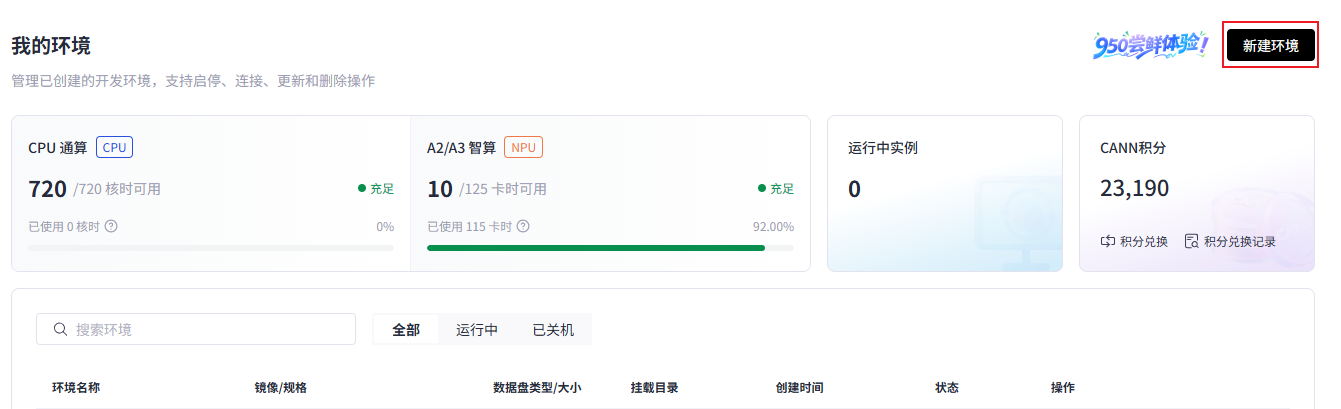
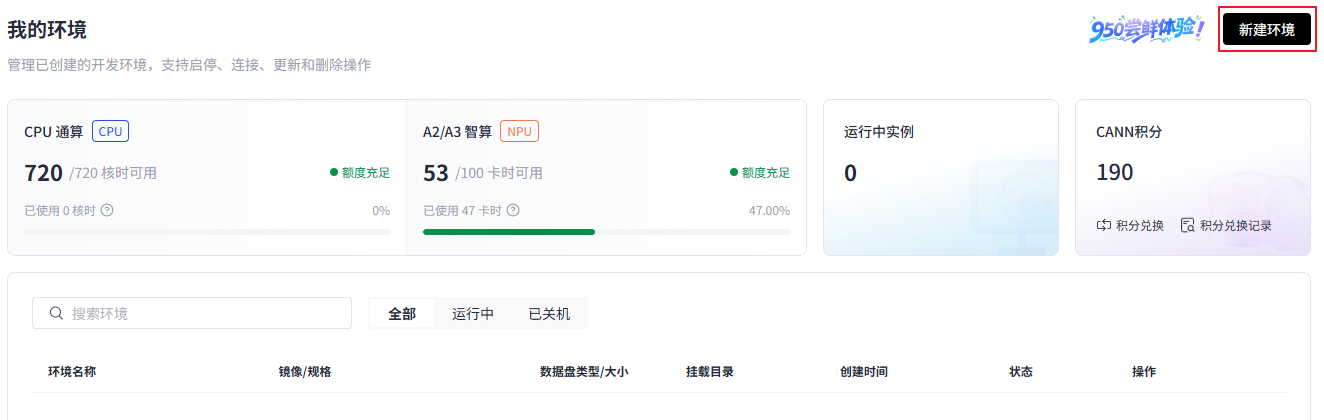
docs(d2l_ai_pypto): 更新第一章 CANN 9.1 环境创建流程和截图
# message auto-generated for no-merge-commit merge:
!1343 merge fix/update-pypto-ch01-cann91 into test

docs(d2l_ai_pypto): 更新第一章 CANN 9.1 环境创建流程和截图

Created-by: linking_sky
Commit-by: Aiden
Merged-by: cann-robot
Description: ## 描述
CANNLab 现已支持直接选择 CANN 9.1.0 模板创建环境，本次同步更新 PyPTO 课程第一章

## 文档更新
- 更新 `01_pypto_quick_start/01.01_CANNLab_pypto_quick_start.md`。
- 更新 `01_pypto_quick_start/images/CANNLab_create_npu.png`。
- 更新 `01_pypto_quick_start/images/cann_npu_choose.png`。
- 更新 `d2l_ai_pypto/README.md`。

## 类型标签
<!--  [x] 表示选中 -->
- [ ] Bug修复
- [ ] 新特性
- [x] 内容优化
- [ ] 其他，请描述：

See merge request: cann/cann-learning-hub!1343

diff --git a/contrib/tutorials/d2l_ai_pypto/README.md b/contrib/tutorials/d2l_ai_pypto/README.md
@@ -1,6 +1,7 @@
 # 基于 PyPTO 实现《动手学深度学习》
 
 ## 课程作者与联系方式
+
 - 作者：@Feixinzhx、@linking_sky、@dmh_hmd、@laoE、@Approach1999 等。
 - 邮箱：[paintstar000@outlook.com](mailto:paintstar000@outlook.com)
 
@@ -15,6 +16,7 @@
 ## 整体学习目标
 
 完成本教程后，你将能够：
+
 - 熟练使用 CANNLab 开发环境并完成 PyPTO 开发与持久化配置
 - 理解基于 Tile 的 PTO（Parallel Tensor/Tile Operation）编程范式
 - 掌握使用 PyPTO 编写线性回归、MLP、CNN、RNN、Transformer 等经典深度学习模型核心算子与网络
@@ -24,12 +26,12 @@
 
 ## 配置说明
 
-| 项目       | 要求 |
-|----------| --- |
-| 推荐硬件     | Atlas A3 训练/推理系列产品（昇腾 910C）、Atlas A2 训练/推理系列产品（昇腾 910B） |
-| pypto 版本 | 0.2.1 及以上 |
-| CANN 版本  | 9.1.0 及以上 |
-| Python   | 3.11.4 |
+| 项目       | 要求                                                                             |
+| ---------- | -------------------------------------------------------------------------------- |
+| 推荐硬件   | Atlas A3 训练/推理系列产品（昇腾 910C）、Atlas A2 训练/推理系列产品（昇腾 910B） |
+| pypto 版本 | 0.2.1                                                                            |
+| CANN 版本  | 9.1.0                                                                           |
+| Python     | 3.11.4                                                                           |
 
 ---
 
@@ -37,11 +39,12 @@
 
 本教程支持以下在线体验环境：
 
-| 体验环境 | 镜像模板                   | Python 内核 | 说明 |
-| --- |----------------------------| --- | --- |
-| CANNLab 云开发环境 | `cann_9.0.0 py3.11-A3-arm` | Python 3.11.4 | 推荐环境。参考 [CANNLab 环境体验指南](../../../docs/CANNLab_env_experience_guide.md) 进行环境配置与开发 |
+| 体验环境           | 镜像模板                     | Python 内核   | 说明                                                                                                                 |
+| ------------------ | ---------------------------- | ------------- | -------------------------------------------------------------------------------------------------------------------- |
+| CANNLab 云开发环境 | `cann_9.1.0 py3.11-A3-arm` | Python 3.11.4 | 推荐环境。参考 [01.01 CANNLab 快速开始](./01_pypto_quick_start/01.01_CANNLab_pypto_quick_start.md) 创建环境并开始开发 |
 
-> **注：** 目前 CANNLab 暂不支持直接创建 `cann_9.1.0` 镜像，需先选择创建 `cann_9.0.0` 环境随后在“我的环境”中进行 **CANN 包升级**（详细流程参考 [01.01_CANNLab快速开始](./01_pypto_quick_start/01.01_CANNLab_pypto_quick_start.md)）。`CANN 9.1.0` 已自带 `PyPTO 0.2.1`，升级后重启即可使用。  
+> **注：** CANNLab 已支持在新建环境时选择 `cann_9.1.0` ，该环境已预装 `PyPTO 0.2.1`，具体步骤参考 [01.01 CANNLab 快速开始](./01_pypto_quick_start/01.01_CANNLab_pypto_quick_start.md)。
+>
 > **本地体验：** 如在本地物理机环境离线体验，需自行安装配套的 CANN 软件，具体请参考 [CANN 安装指南](https://www.hiascend.com/cann/download)。
 
 ---
@@ -59,30 +62,30 @@ d2l_ai_pypto/
 │   ├── 0x.02_<section_name>         # 小节内容（notebook/md）
 │   ├── ...
 │   └── README.md                    # 章节概述
-├── ...                    
-└── README.md                        # 课程介绍（本文件）                
+├── ...                  
+└── README.md                        # 课程介绍（本文件）
 ```
 
 ---
 
 ## 课程目录
 
-| 章节 | 标题 | Link | 状态 |
-|---|---|---|---|
-| 第1章 | pypto 快速开始 | [在线阅读](./01_pypto_quick_start/README.md) | ✅ 已发布 |
-| 第2章 | 预备知识（数据操作、线性代数、自动微分、概率） | [在线阅读](./02_pypto_preliminaries/README.md) | ✅ 已发布 |
-| 第3章 | 线性神经网络（线性回归、softmax 回归） | [在线阅读](./03_pypto_linear_networks/README.md) | ✅ 已发布 |
-| 第4章 | 多层感知机（MLP、激活函数、正则化） | [在线阅读](./04_pypto_multilayer_perceptrons/README.md) | ✅ 已发布 |
-| 第5章 | 深度学习计算（层与块、参数管理、自定义层） | [在线阅读](./05_pypto_deep_learning_computation/README.md) | ✅ 已发布 |
-| 第6章 | 卷积神经网络（卷积、填充、步幅、池化、LeNet） | [在线阅读](./06_pypto_convolutional_networks/README.md) | ✅ 已发布 |
-| 第7章 | 现代卷积神经网络（AlexNet、VGG、ResNet、DenseNet） | [在线阅读](./07_pypto_modern_convolutional_networks/README.md) | ✅ 已发布 |
-| 第8章 | 循环神经网络（RNN、语言模型） | [在线阅读](./08_pypto_recurrent_neural_networks/README.md) | ✅ 已发布 |
-| 第9章 | 现代循环神经网络（GRU、LSTM、Seq2Seq） | [在线阅读](./09_pypto_modern_recurrent_neural_networks/README.md) | ✅ 已发布 |
-| 第10章 | 注意力机制（多头注意力、Transformer） | [在线阅读](./10_pypto_attention_mechanisms/README.md) | ✅ 已发布 |
-| 第11章 | 优化算法（SGD、动量法、Adam） | [在线阅读](./11_pypto_optimization/README.md) | ✅ 已发布 |
-| 第12章 | 计算机视觉（图像增广、目标检测、语义分割） | [在线阅读](./12_pypto_computer_vision/README.md) | ✅ 已发布 |
-| 第13章 | 自然语言处理：预训练（词嵌入、BERT） | [在线阅读](./13_pypto_natural_language_processing_pretraining/README.md) | ✅ 已发布 |
-| 第14章 | 自然语言处理：应用（情感分析、自然语言推断） | [在线阅读](./14_pypto_natural_language_processing_applications/README.md) | ✅ 已发布 |
+| 章节   | 标题                                               | Link                                                                     | 状态      |
+| ------ | -------------------------------------------------- | ------------------------------------------------------------------------ | --------- |
+| 第1章  | pypto 快速开始                                     | [在线阅读](./01_pypto_quick_start/README.md)                              | ✅ 已发布 |
+| 第2章  | 预备知识（数据操作、线性代数、自动微分、概率）     | [在线阅读](./02_pypto_preliminaries/README.md)                            | ✅ 已发布 |
+| 第3章  | 线性神经网络（线性回归、softmax 回归）             | [在线阅读](./03_pypto_linear_networks/README.md)                          | ✅ 已发布 |
+| 第4章  | 多层感知机（MLP、激活函数、正则化）                | [在线阅读](./04_pypto_multilayer_perceptrons/README.md)                   | ✅ 已发布 |
+| 第5章  | 深度学习计算（层与块、参数管理、自定义层）         | [在线阅读](./05_pypto_deep_learning_computation/README.md)                | ✅ 已发布 |
+| 第6章  | 卷积神经网络（卷积、填充、步幅、池化、LeNet）      | [在线阅读](./06_pypto_convolutional_networks/README.md)                   | ✅ 已发布 |
+| 第7章  | 现代卷积神经网络（AlexNet、VGG、ResNet、DenseNet） | [在线阅读](./07_pypto_modern_convolutional_networks/README.md)            | ✅ 已发布 |
+| 第8章  | 循环神经网络（RNN、语言模型）                      | [在线阅读](./08_pypto_recurrent_neural_networks/README.md)                | ✅ 已发布 |
+| 第9章  | 现代循环神经网络（GRU、LSTM、Seq2Seq）             | [在线阅读](./09_pypto_modern_recurrent_neural_networks/README.md)         | ✅ 已发布 |
+| 第10章 | 注意力机制（多头注意力、Transformer）              | [在线阅读](./10_pypto_attention_mechanisms/README.md)                     | ✅ 已发布 |
+| 第11章 | 优化算法（SGD、动量法、Adam）                      | [在线阅读](./11_pypto_optimization/README.md)                             | ✅ 已发布 |
+| 第12章 | 计算机视觉（图像增广、目标检测、语义分割）         | [在线阅读](./12_pypto_computer_vision/README.md)                          | ✅ 已发布 |
+| 第13章 | 自然语言处理：预训练（词嵌入、BERT）               | [在线阅读](./13_pypto_natural_language_processing_pretraining/README.md)  | ✅ 已发布 |
+| 第14章 | 自然语言处理：应用（情感分析、自然语言推断）       | [在线阅读](./14_pypto_natural_language_processing_applications/README.md) | ✅ 已发布 |
 
 ---
 
